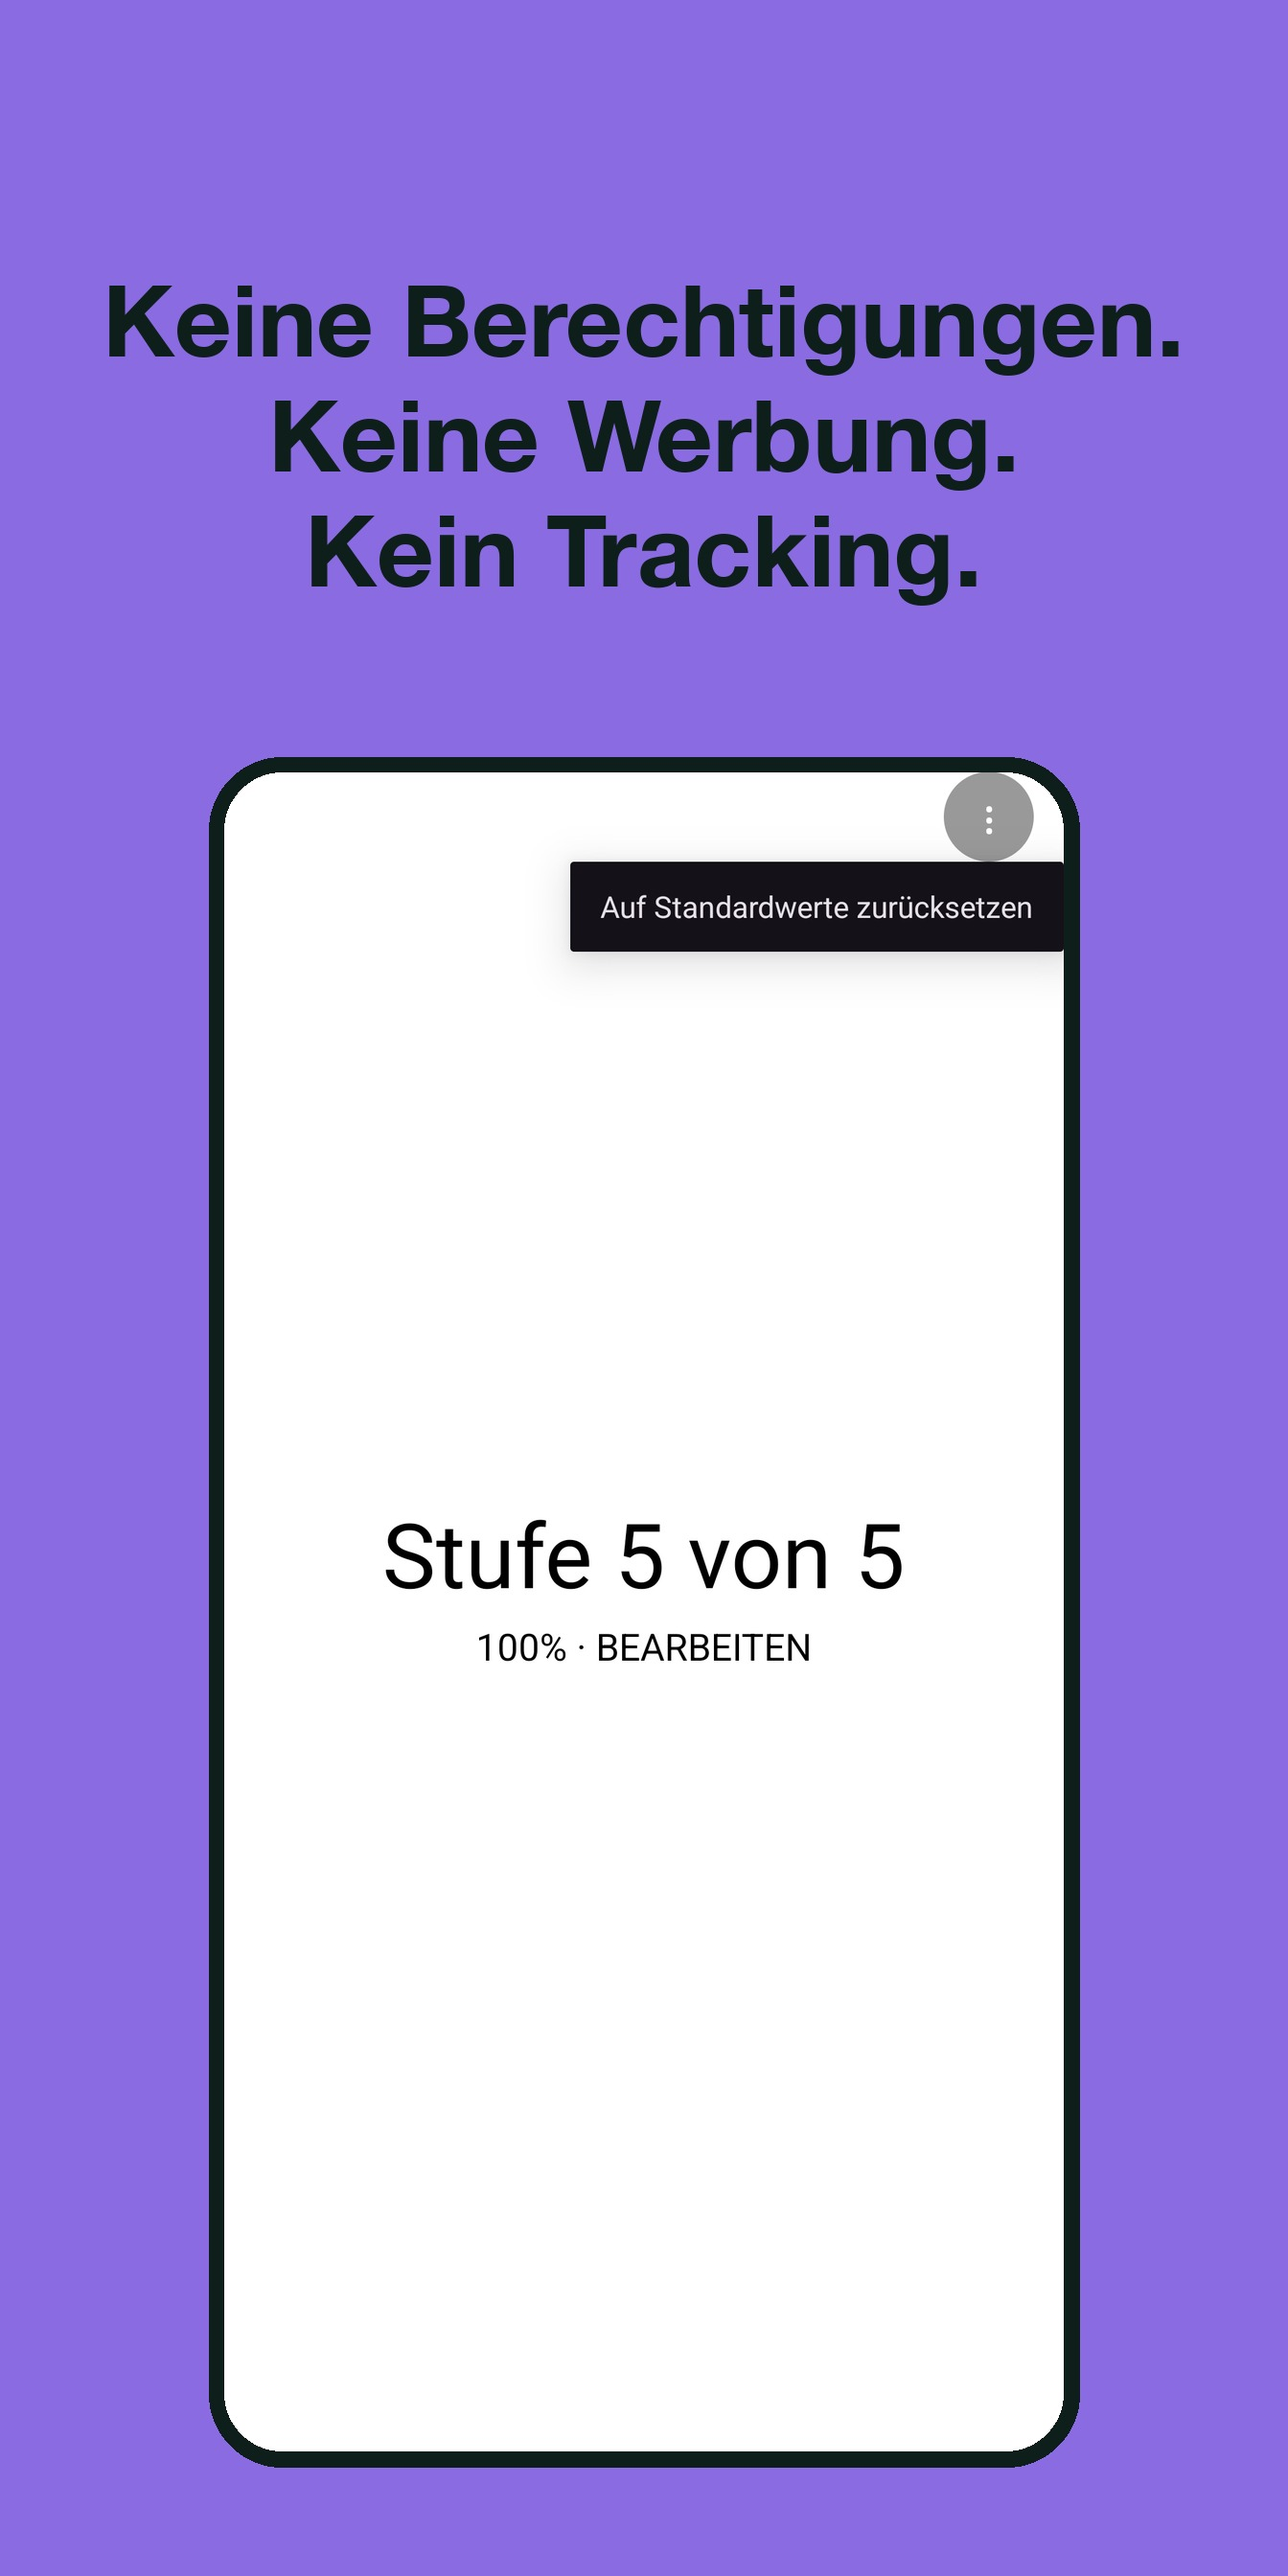
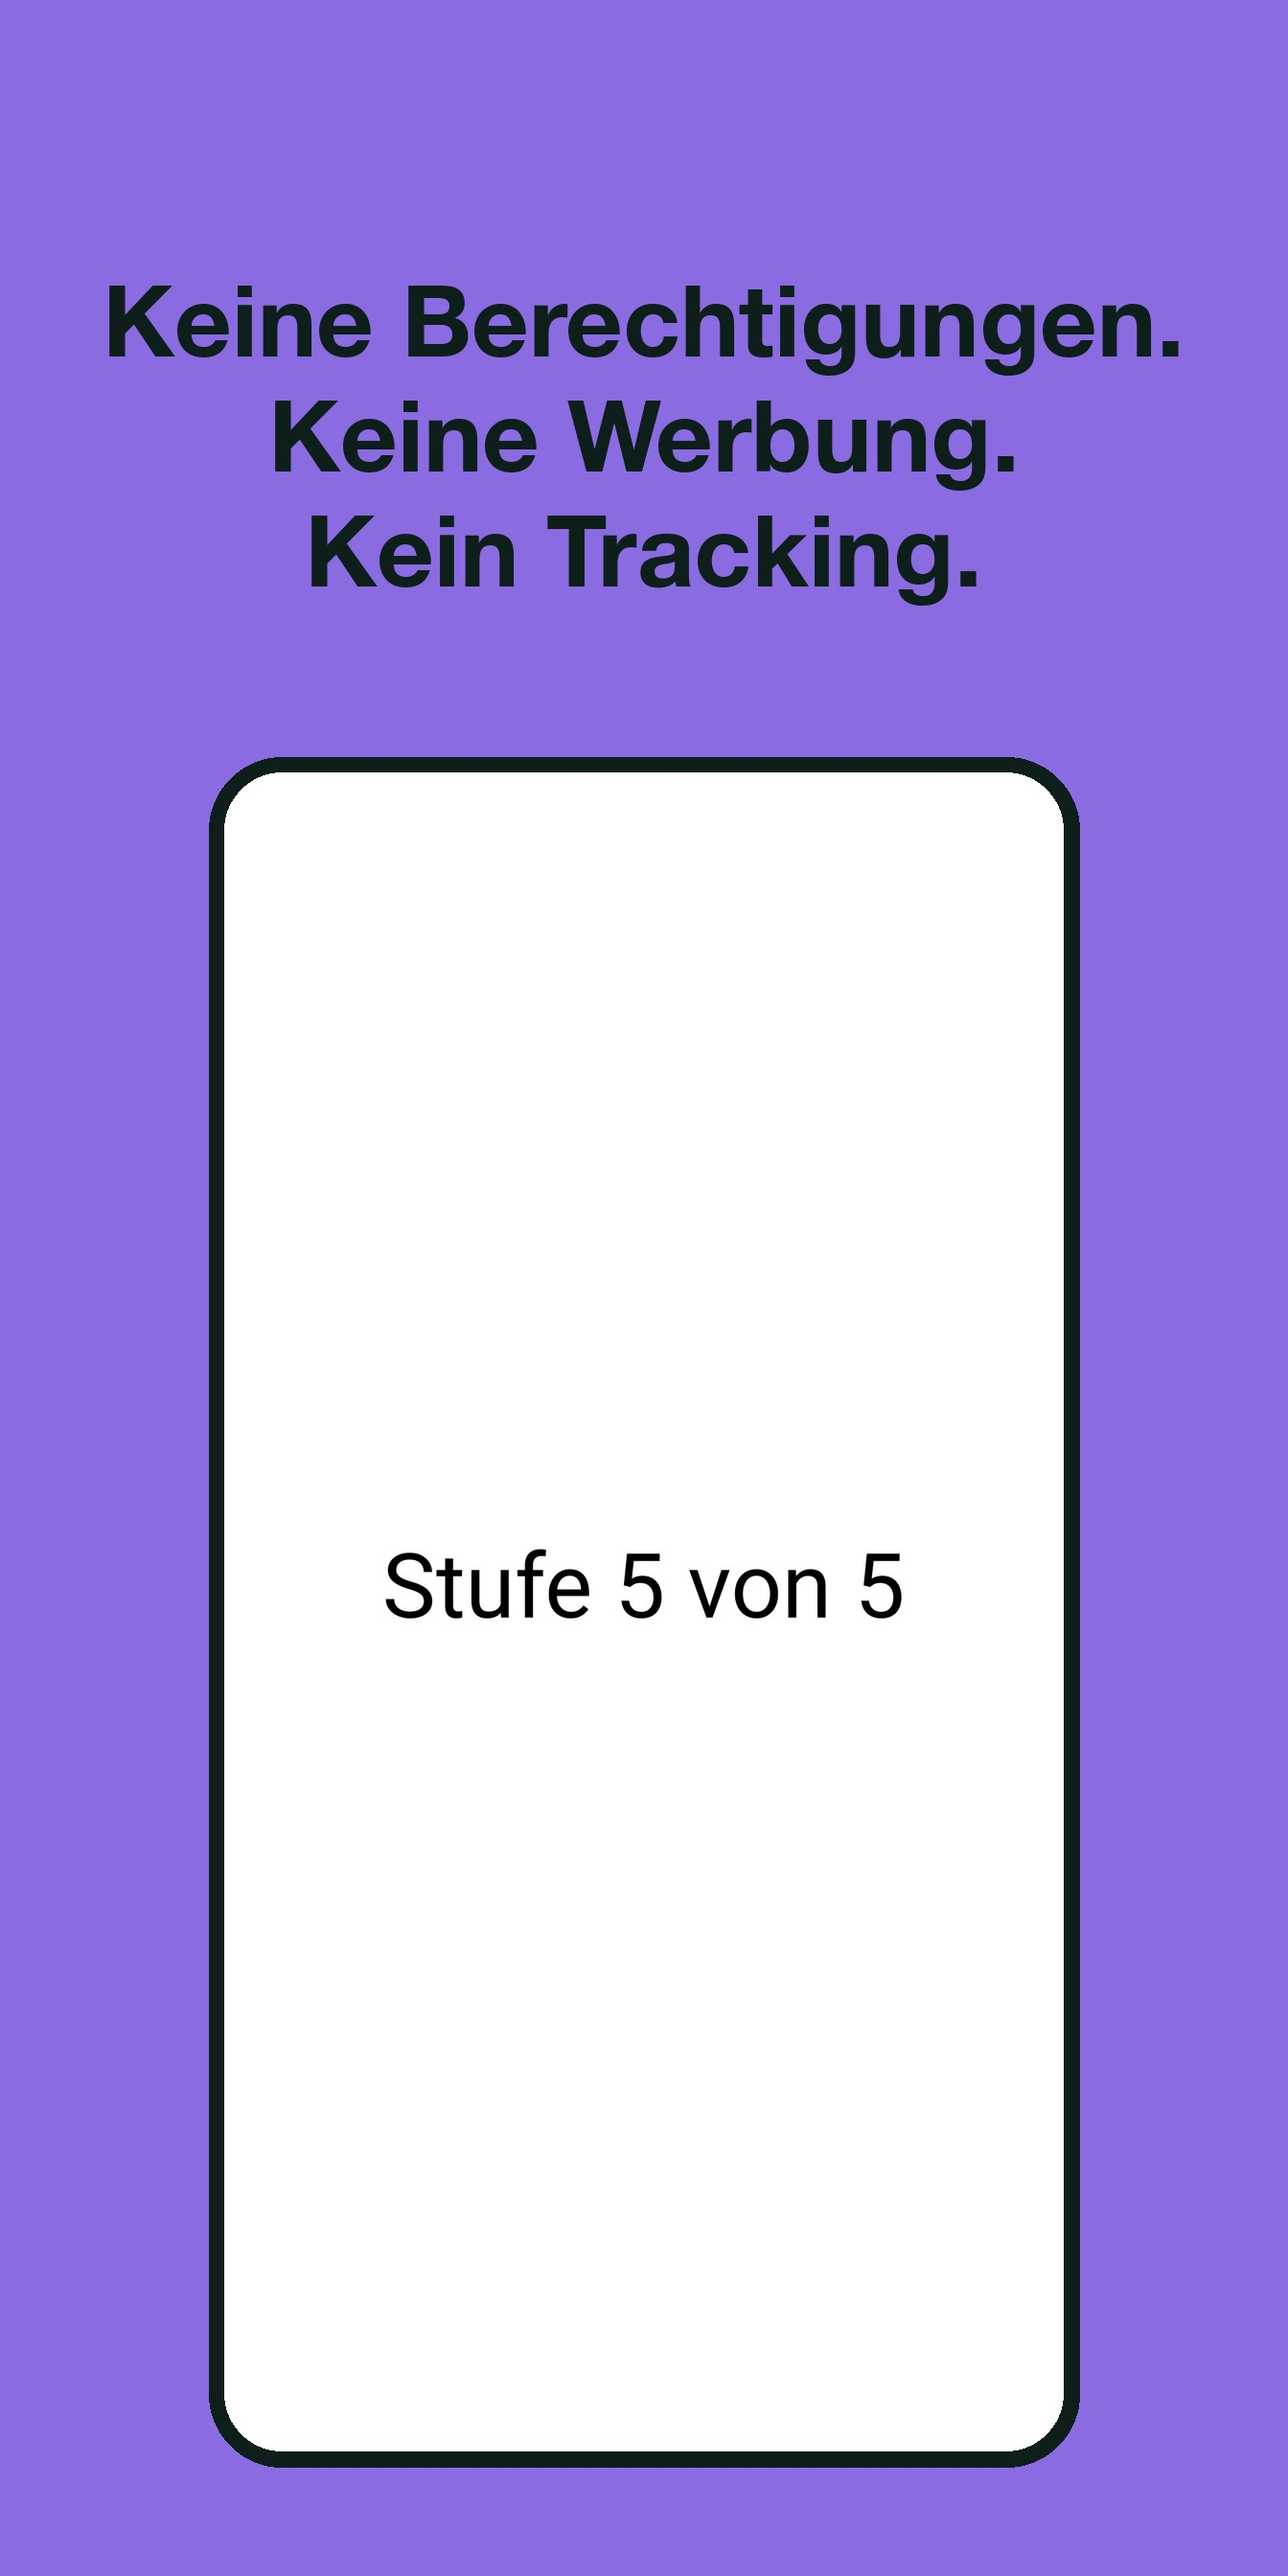
Put the privacy claim on the bright capture
No screen can evidence "no permissions, no ads, no tracking", so the tile sat
on the reset-menu capture, which had nothing to do with the claim. The empty
bright screen carries it better, at the cost of reusing that capture on tiles
1 and 5 — three visually distinct tiles sit between them.

Leaves the reset-menu capture unused by any tile. It stays in
tools/screenshots-raw/ as a source; "Reset to defaults" does not earn one of
the five positions.

Changed region(s): [[0.4375, 0.2812, 0.8438, 0.375], [0.2812, 0.5938, 0.7188, 0.6562]]

diff --git a/tools/make_tiles.py b/tools/make_tiles.py
@@ -38,7 +38,9 @@ TILES = [
     ("1.jpg", "Fünf Helligkeits-\nstufen — antippen", "Five brightness\nsteps — just tap"),
     ("5.jpg", "Rotlicht schont\ndie Nachtsicht", "Red light preserves\nnight vision"),
     ("3.jpg", "Jede Stufe\nfein justierbar", "Fine-tune\nevery step"),
-    ("4.jpg", "Keine Berechtigungen.\nKeine Werbung.\nKein Tracking.",
+    # Die Datenschutz-Aussage laesst sich durch keinen Screen belegen. Die hellste,
+    # leere Flaeche traegt sie am besten, auch wenn sie dadurch zweimal vorkommt.
+    ("2.jpg", "Keine Berechtigungen.\nKeine Werbung.\nKein Tracking.",
               "No permissions.\nNo ads.\nNo tracking."),
 ]
 
